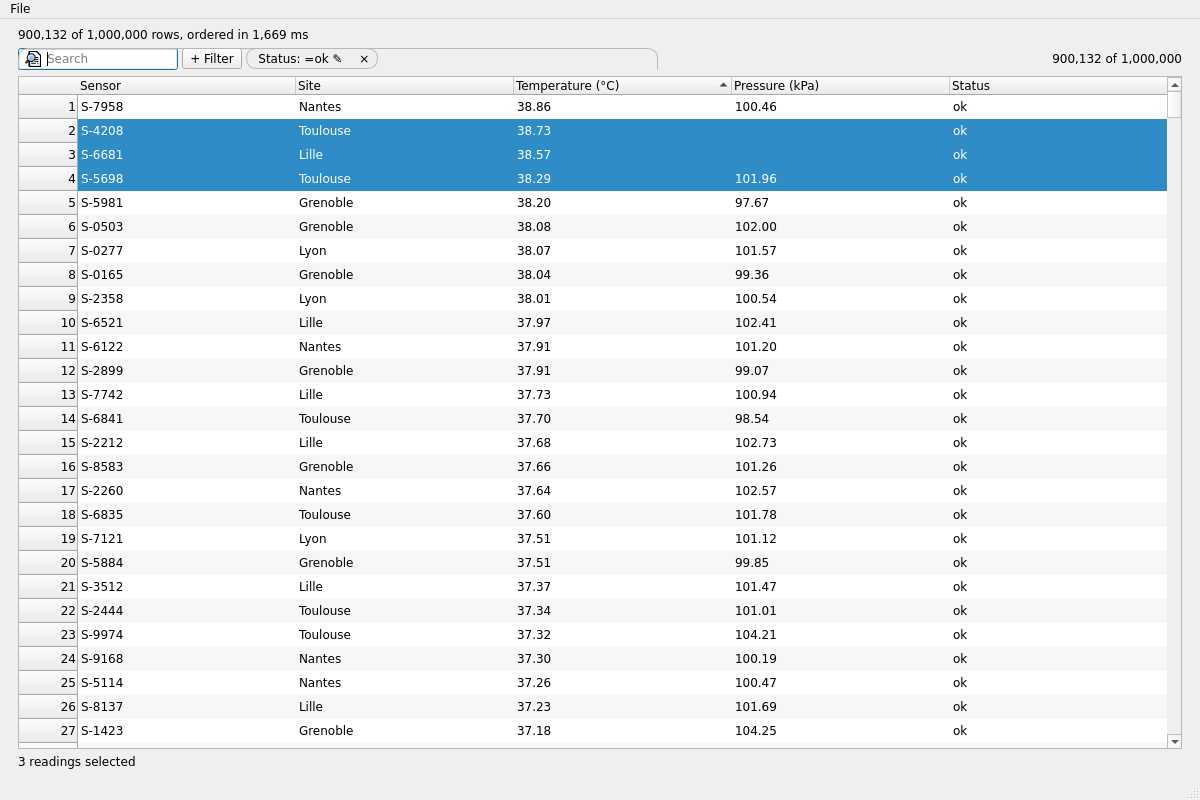
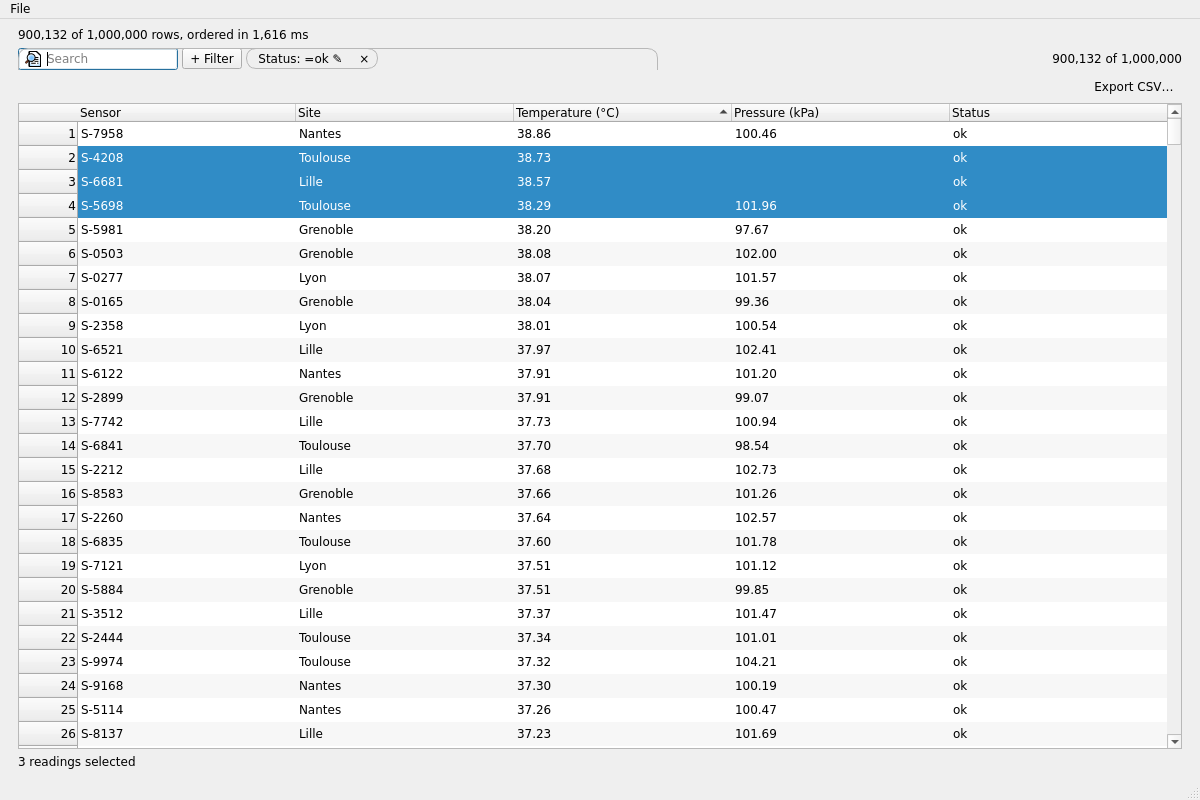
Show a large table's Export CSV button on Qt

Changed region(s): [[0.0308, 0.0938, 0.9867, 0.9375]]

diff --git a/src/composeui/qtcore/widgets/qdatatable.py b/src/composeui/qtcore/widgets/qdatatable.py
@@ -20,6 +20,7 @@ from qtpy.QtWidgets import (
     QLabel,
     QSizePolicy,
     QTableView,
+    QToolButton,
     QVBoxLayout,
     QWidget,
 )
@@ -188,19 +189,25 @@ class QDataTableView(QTableView):
 class QDataFilterTable(QWidget):
     """A large table under its filter bar, which shows only while a column filters.
 
-    When the search or the filters hide every row, `empty` says so under the headers.
+    `export` shows the table's `export_action` above the rows, at their right, as the
+    web's link: the context menu alone hides it. When the search or the filters hide
+    every row, `empty` says so under the headers.
     """
 
     def __init__(self, table: DataTableLike) -> None:
         super().__init__()
         self.bar = QTableFilterBar()
         self.table = QDataTableView(table)
+        self.export = QToolButton()
+        self.export.setDefaultAction(self.table.export_action)
+        self.export.setAutoRaise(True)
         self.empty = QLabel()
         self.empty.setAlignment(Qt.AlignmentFlag.AlignCenter)
         self.empty.setVisible(False)
         layout = QVBoxLayout(self)
         layout.setContentsMargins(0, 0, 0, 0)
         layout.addWidget(self.bar)
+        layout.addWidget(self.export, 0, Qt.AlignmentFlag.AlignRight)
         layout.addWidget(self.table, 1)
         layout.addWidget(self.empty)
         self.bar.setVisible(False)

diff --git a/tests/test_qtrenderer.py b/tests/test_qtrenderer.py
@@ -2806,7 +2806,7 @@ def test_a_large_table_draws_each_row_with_one_read_of_its_cells(
     assert box.table.model().index(last, 1).data() == f"{last / 2:.3f}"
 
 
-def test_a_large_table_s_context_menu_exports_its_rows_as_csv(
+def test_a_large_table_s_button_exports_its_rows_as_csv(
     qtbot: QtBot, tmp_path: Path, monkeypatch: pytest.MonkeyPatch
 ) -> None:
     view = RoomsDataMainView()
@@ -2822,9 +2822,15 @@ def test_a_large_table_s_context_menu_exports_its_rows_as_csv(
         return str(tmp_path / "rooms"), filters
 
     monkeypatch.setattr(QFileDialog, "getSaveFileName", get_save_file_name)
+    # a button above the rows, and the table's context menu, share the action
     (action,) = (action for action in box.table.actions() if action.text() == "Export CSV…")
+    assert box.export.defaultAction() is action
+    window = _widget(view)
+    window.show()
+    qtbot.waitExposed(window)
+    assert box.export.isVisible()
 
-    action.trigger()
+    qtbot.mouseClick(box.export, Qt.MouseButton.LeftButton)
 
     assert asked == [("Export CSV", "table.csv", "CSV (*.csv)")]
     assert (tmp_path / "rooms.csv").read_text(encoding="utf-8").splitlines() == [

diff --git a/src/composeui/qtcore/qtrenderer.py b/src/composeui/qtcore/qtrenderer.py
@@ -1253,8 +1253,9 @@ class QtDataTableRenderer(QtWidgetRenderer[DataTableViewLike, QDataFilterTable])
     Its filter bar (`QTableFilterBar`) searches it, and filters the columns of
     `filterable_columns`: the bar knows them by their position among the source's.
     Ctrl+C copies the selected rows to the clipboard (`DataTableView.selection_text`).
-    The context menu's Export CSV asks where to write the rows (`export_csv`). While a
-    job orders the rows (`is_ordering`), the cursor over them is busy.
+    Export CSV, above the rows and in their context menu, asks where to write the rows
+    (`export_csv`). While a job orders the rows (`is_ordering`), the cursor over them is
+    busy.
     """
 
     def __init__(self, view: DataTableViewLike) -> None:

diff --git a/docs/user-guide.md b/docs/user-guide.md
@@ -1132,8 +1132,8 @@ order (`sort_by`). The source orders the rows once for each click.
 - **Qt** shows a `QTableView` whose model asks the view for the rows Qt draws. Each row
   starts with its position. The header shows Qt's sort indicator. A selected row has the
   highlight colors. Shift+click selects the rows from the one clicked last; Space
-  selects the current row, and Enter activates it. The table's context menu has
-  "Export CSV…", which asks where to save the file. While a job orders the rows, the
+  selects the current row, and Enter activates it. "Export CSV…", above the rows and in
+  their context menu, asks where to save the file. While a job orders the rows, the
   cursor over them is busy.
 - **Textual** draws the headers on the first line, then the lines on screen alone. A
   cursor marks a row: the arrow keys, Page Up, Page Down, Home and End move it. Space
